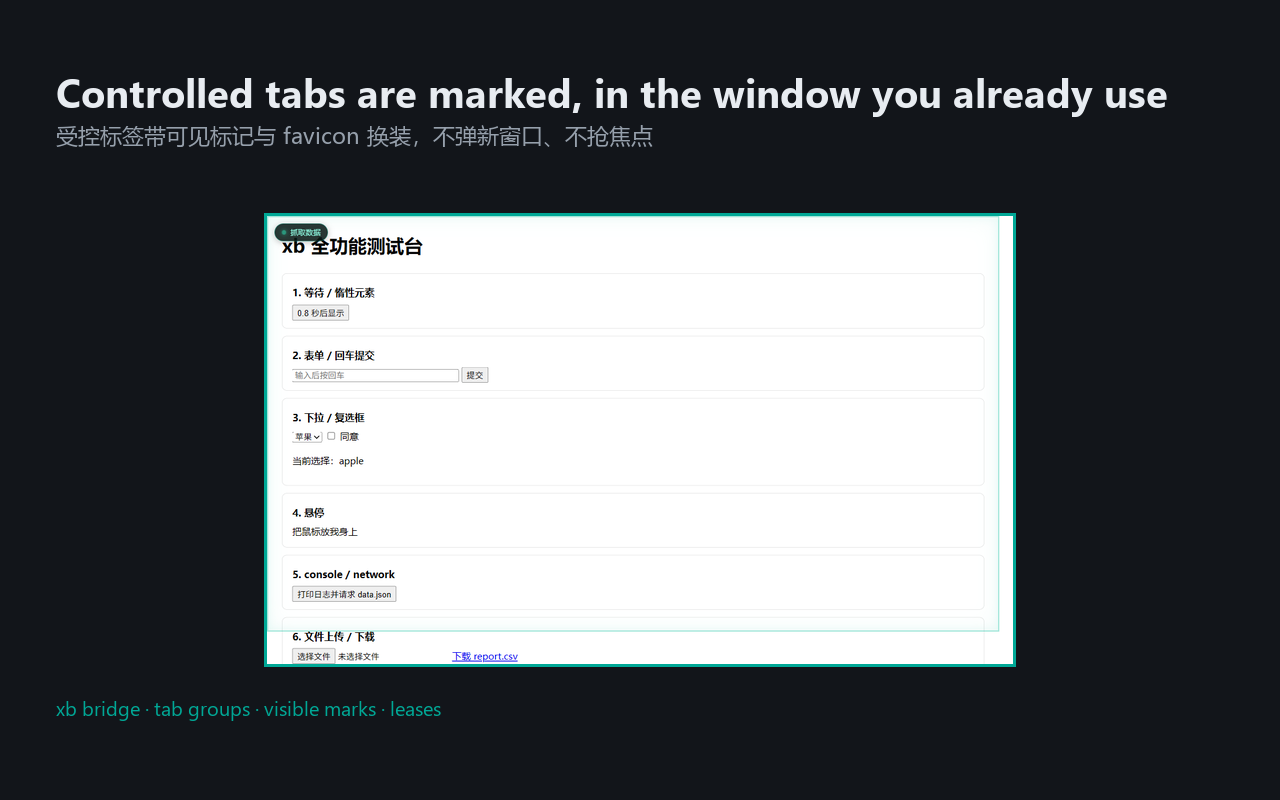
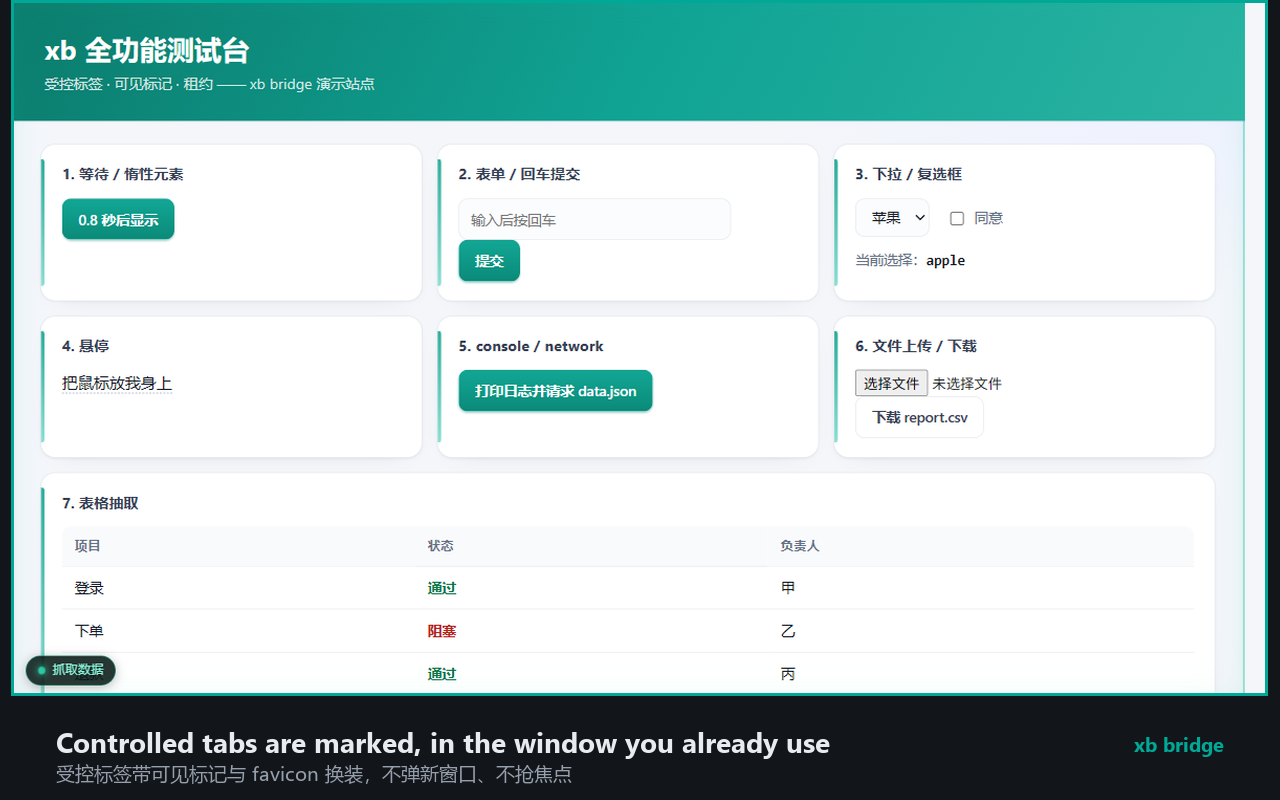
polish: redesign the demo page, move the control chip out of the page header
The test bench doubled as the store screenshot, and it looked like a test bench:
unstyled default HTML in one long column, and the control chip sat in the top-left
corner right on top of any site's logo.

- test/site/app.html: CSS-only redesign (hero band, card grid, teal accents,
  status-coloured table, focused inputs). Every id, inline handler, text node and
  the .spacer height are untouched, so all 86 e2e assertions still pass; the table
  card spans the full row so the last grid row isn't a third empty.
- sw.js: control chip moves to bottom-left (top-left collides with page headers
  and nav on most sites).
- tools/make_store_shots.py: shot 1 now fills the frame for legibility, caption in
  a bottom band instead of a small inset image.
- docs/store/*.png regenerated from the live page through the bridge.
- dist/xb-bridge-0.3.3.zip rebuilt (chip position + store build flag).

e2e: 86/86 ALL GREEN after the restyle.

diff --git a/test/site/app.html b/test/site/app.html
@@ -5,14 +5,145 @@
 <meta name="viewport" content="width=device-width, initial-scale=1">
 <title>xb 全功能测试台</title>
 <style>
-  body { font: 15px/1.6 system-ui, sans-serif; margin: 24px; }
-  section { border: 1px solid #ddd; border-radius: 8px; padding: 12px 16px; margin: 12px 0; }
-  h2 { margin: 6px 0; font-size: 16px; }
-  table { border-collapse: collapse; }
-  td, th { border: 1px solid #ccc; padding: 4px 10px; }
-  #hoverout { display: none; color: #b00; }
+  :root {
+    --bg: #f4f6fa;
+    --card: #ffffff;
+    --ink: #101828;
+    --muted: #667085;
+    --line: #e4e7ec;
+    --brand: #0fa08c;
+    --brand-dark: #0b7c6d;
+    --amber: #b54708;
+    --radius: 14px;
+  }
+  * { box-sizing: border-box; }
+  html { background: var(--bg); }
+  body {
+    margin: 0; padding: 0 28px 56px;
+    color: var(--ink);
+    font: 15px/1.65 "Segoe UI", system-ui, -apple-system, "Microsoft YaHei", sans-serif;
+    background:
+      radial-gradient(900px 380px at 6% -10%, #e3fbf6 0%, rgba(227, 251, 246, 0) 62%),
+      radial-gradient(700px 320px at 96% 4%, #eef2ff 0%, rgba(238, 242, 255, 0) 58%),
+      var(--bg);
+    display: grid;
+    grid-template-columns: repeat(auto-fit, minmax(330px, 1fr));
+    gap: 14px;
+    align-content: start;
+  }
+
+  /* hero band: negative margin lets it bleed to the viewport edges */
+  h1 {
+    grid-column: 1 / -1;
+    margin: 0 -28px 8px;
+    padding: 30px 32px 28px;
+    font-size: 26px; line-height: 1.25; letter-spacing: .2px; font-weight: 650;
+    color: #fff;
+    background: linear-gradient(118deg, #0b7c6d 0%, #10a394 52%, #2bb3a2 100%);
+    box-shadow: 0 1px 0 rgba(16, 24, 40, .06);
+  }
+  h1::after {
+    content: "受控标签 · 可见标记 · 租约 —— xb bridge 演示站点";
+    display: block; margin-top: 8px;
+    font-size: 13.5px; font-weight: 400; letter-spacing: .3px;
+    color: rgba(255, 255, 255, .82);
+  }
+
+  section {
+    position: relative;
+    margin: 0;
+    padding: 16px 20px 18px;
+    background: var(--card);
+    border: 1px solid var(--line);
+    border-radius: var(--radius);
+    box-shadow: 0 1px 2px rgba(16, 24, 40, .05), 0 8px 24px -20px rgba(16, 24, 40, .25);
+  }
+  section::before {
+    content: ""; position: absolute; left: 0; top: 14px; bottom: 14px; width: 3px;
+    border-radius: 0 3px 3px 0; background: linear-gradient(180deg, var(--brand), #7bd9cc);
+    opacity: .85;
+  }
+  h2 {
+    margin: 0 0 12px; font-size: 14px; font-weight: 650; letter-spacing: .2px;
+    color: #344054;
+  }
+
+  p { margin: 10px 0 0; color: var(--muted); font-size: 13.5px; }
+  p#delayed { color: var(--brand-dark); font-weight: 600; }
+
+  button, #dl {
+    font: inherit; font-size: 13.5px; font-weight: 600;
+    padding: 8px 15px; border-radius: 9px; cursor: pointer;
+    border: 1px solid var(--line); background: #fff; color: #344054;
+    transition: border-color .15s, box-shadow .15s, transform .05s;
+  }
+  button:hover, #dl:hover { border-color: #b6c2d2; box-shadow: 0 2px 8px -4px rgba(16, 24, 40, .3); }
+  button:active { transform: translateY(1px); }
+  #btn-slow, #btn-submit, #btn-log {
+    color: #fff; border-color: transparent;
+    background: linear-gradient(180deg, #12a795, #0b8a79);
+    box-shadow: 0 1px 2px rgba(11, 124, 109, .35);
+  }
+  #btn-slow:hover, #btn-submit:hover, #btn-log:hover { filter: brightness(1.04); }
+
+  input#q {
+    font: inherit; font-size: 13.5px;
+    padding: 8px 11px; margin-right: 8px;
+    border: 1px solid var(--line); border-radius: 9px; background: #fbfcfe;
+    color: var(--ink);
+  }
+  input#q:focus, select:focus { outline: 2px solid #a7e8de; outline-offset: 1px; }
+  select {
+    font: inherit; font-size: 13.5px; padding: 8px 11px; margin-right: 12px;
+    border: 1px solid var(--line); border-radius: 9px; background: #fbfcfe; color: var(--ink);
+  }
+  label { color: var(--muted); font-size: 13.5px; }
+  input[type="checkbox"] { accent-color: var(--brand); vertical-align: -2px; margin-right: 6px; }
+
+  #hoverout { display: none; margin-top: 8px; color: var(--amber); font-weight: 600; }
+  #hoverme { border-bottom: 1px dashed #98a2b3; cursor: help; }
   #hoverme:hover + #hoverout { display: block; }
-  .spacer { height: 1400px; background: linear-gradient(#fff, #eee); }
+
+  a#dl { display: inline-block; text-decoration: none; }
+
+  table { border-collapse: separate; border-spacing: 0; width: 100%; font-size: 13.5px; }
+  th, td { padding: 9px 12px; text-align: left; border-bottom: 1px solid var(--line); }
+  th { font-size: 12px; text-transform: uppercase; letter-spacing: .5px; color: var(--muted); background: #f9fafc; }
+  th:first-child { border-radius: 9px 0 0 0; }
+  th:last-child { border-radius: 0 9px 0 0; }
+  tbody tr:last-child td { border-bottom: 0; }
+  tbody tr:hover td { background: #f9fdfc; }
+  #tbl td:nth-child(2) { font-weight: 650; }
+  #tbl tbody tr:nth-child(1) td:nth-child(2) { color: #067647; }
+  #tbl tbody tr:nth-child(2) td:nth-child(2) { color: #b42318; }
+  #tbl tbody tr:nth-child(3) td:nth-child(2) { color: #067647; }
+
+  .spacer {
+    grid-column: 1 / -1; height: 1400px; margin: 6px 0 0;
+    border-radius: var(--radius);
+    background:
+      repeating-linear-gradient(45deg, rgba(15, 160, 140, .05) 0 12px, transparent 12px 24px),
+      linear-gradient(180deg, rgba(255, 255, 255, .9), rgba(244, 246, 250, .2));
+    border: 1px dashed #d3dae6;
+  }
+  #bottom { grid-column: 1 / -1; text-align: center; padding: 18px 0 6px; }
+
+  .full { grid-column: 1 / -1; }
+  #dragzone { grid-column: 1 / -1; }
+  #pad {
+    position: relative; width: 260px; height: 120px;
+    border: 1px solid #cfd8e5; border-radius: 12px;
+    background: linear-gradient(180deg, #fbfdff, #f1f6fb);
+  }
+  #knob {
+    position: absolute; left: 8px; top: 8px; width: 26px; height: 26px; border-radius: 50%;
+    background: radial-gradient(circle at 32% 28%, #38c8b5, #0b8a79);
+    box-shadow: 0 2px 8px -2px rgba(11, 138, 121, .6);
+    cursor: grab;
+  }
+  #knob:active { cursor: grabbing; }
+  code, #knobout, #clickout, #selout { font-family: Consolas, ui-monospace, monospace; }
+  #knobout, #clickout, #selout { color: var(--ink); font-weight: 600; }
 </style>
 </head>
 <body>
@@ -66,7 +197,7 @@
   <a id="dl" href="/files/report.csv" download>下载 report.csv</a>
 </section>
 
-<section>
+<section class="full">
   <h2>7. 表格抽取</h2>
   <table id="tbl">
     <thead><tr><th>项目</th><th>状态</th><th>负责人</th></tr></thead>

diff --git a/extension/sw.js b/extension/sw.js
@@ -829,7 +829,7 @@ function _fMark(opts) {
     '.frame{position:fixed;inset:0;box-sizing:border-box;border:2px solid rgba(20,190,160,.85);' +
     'box-shadow:inset 0 0 16px rgba(20,190,160,.22),inset 0 0 40px rgba(20,190,160,.10);' +
     'animation:xbBreathe 2.4s ease-in-out infinite alternate}' +
-    '.chip{position:fixed;left:12px;top:12px;display:flex;align-items:center;gap:7px;' +
+    '.chip{position:fixed;left:14px;bottom:14px;display:flex;align-items:center;gap:7px;' +
     'font:12px/1.45 -apple-system,system-ui,"Segoe UI",sans-serif;letter-spacing:.2px;' +
     'background:rgba(9,26,23,.88);color:#8af3da;padding:5px 11px;border-radius:999px;' +
     'border:1px solid rgba(20,190,160,.55);box-shadow:0 2px 10px rgba(0,0,0,.25)}' +

diff --git a/tools/make_store_shots.py b/tools/make_store_shots.py
@@ -77,22 +77,25 @@ def rounded(img: Image.Image, radius: int = 14) -> Image.Image:
 
 
 def shot_page(page_path: str, out_path: str) -> None:
+    """Big, readable page shot: the capture fills the frame, caption in a band."""
     page = Image.open(page_path).convert("RGB")
-    # fit into the 1280 x 560 content area, keeping aspect
-    box_w, box_h = W - 112, 448
-    scale = min(box_w / page.width, box_h / page.height)
+    band = 104                       # caption strip at the bottom
+    avail_w, avail_h = W, H - band
+    scale = min(avail_w / page.width, avail_h / page.height)
     page = page.resize((max(1, int(page.width * scale)), max(1, int(page.height * scale))),
                        Image.LANCZOS)
     img, d = canvas()
-    caption(d, 64, "Controlled tabs are marked, in the window you already use",
-            "受控标签带可见标记与 favicon 换装，不弹新窗口、不抢焦点")
     x = (W - page.width) // 2
-    y = 216
-    img.paste(page, (x, y))
-    d.rectangle([x - 3, y - 3, x + page.width + 2, y + page.height + 2],
-                outline=TEAL, width=3)
-    d.text((56, y + box_h + 30), "xb bridge · tab groups · visible marks · leases",
-           font=font("sans", 20), fill=TEAL)
+    img.paste(page, (x, 0))
+    d.rectangle([x, 0, x + page.width - 1, page.height - 1], outline=TEAL, width=3)
+    d.text((56, H - band + 26),
+           "Controlled tabs are marked, in the window you already use",
+           font=font("bold", 28), fill=FG)
+    sub = "受控标签带可见标记与 favicon 换装，不弹新窗口、不抢焦点"
+    d.text((56, H - band + 64), sub, font=font("sans", 19, sub), fill=MUTED)
+    right = "xb bridge"
+    rw = d.textlength(right, font=font("bold", 20, right))
+    d.text((W - 56 - rw, H - band + 34), right, font=font("bold", 20, right), fill=TEAL)
     img.save(out_path)
 
 
